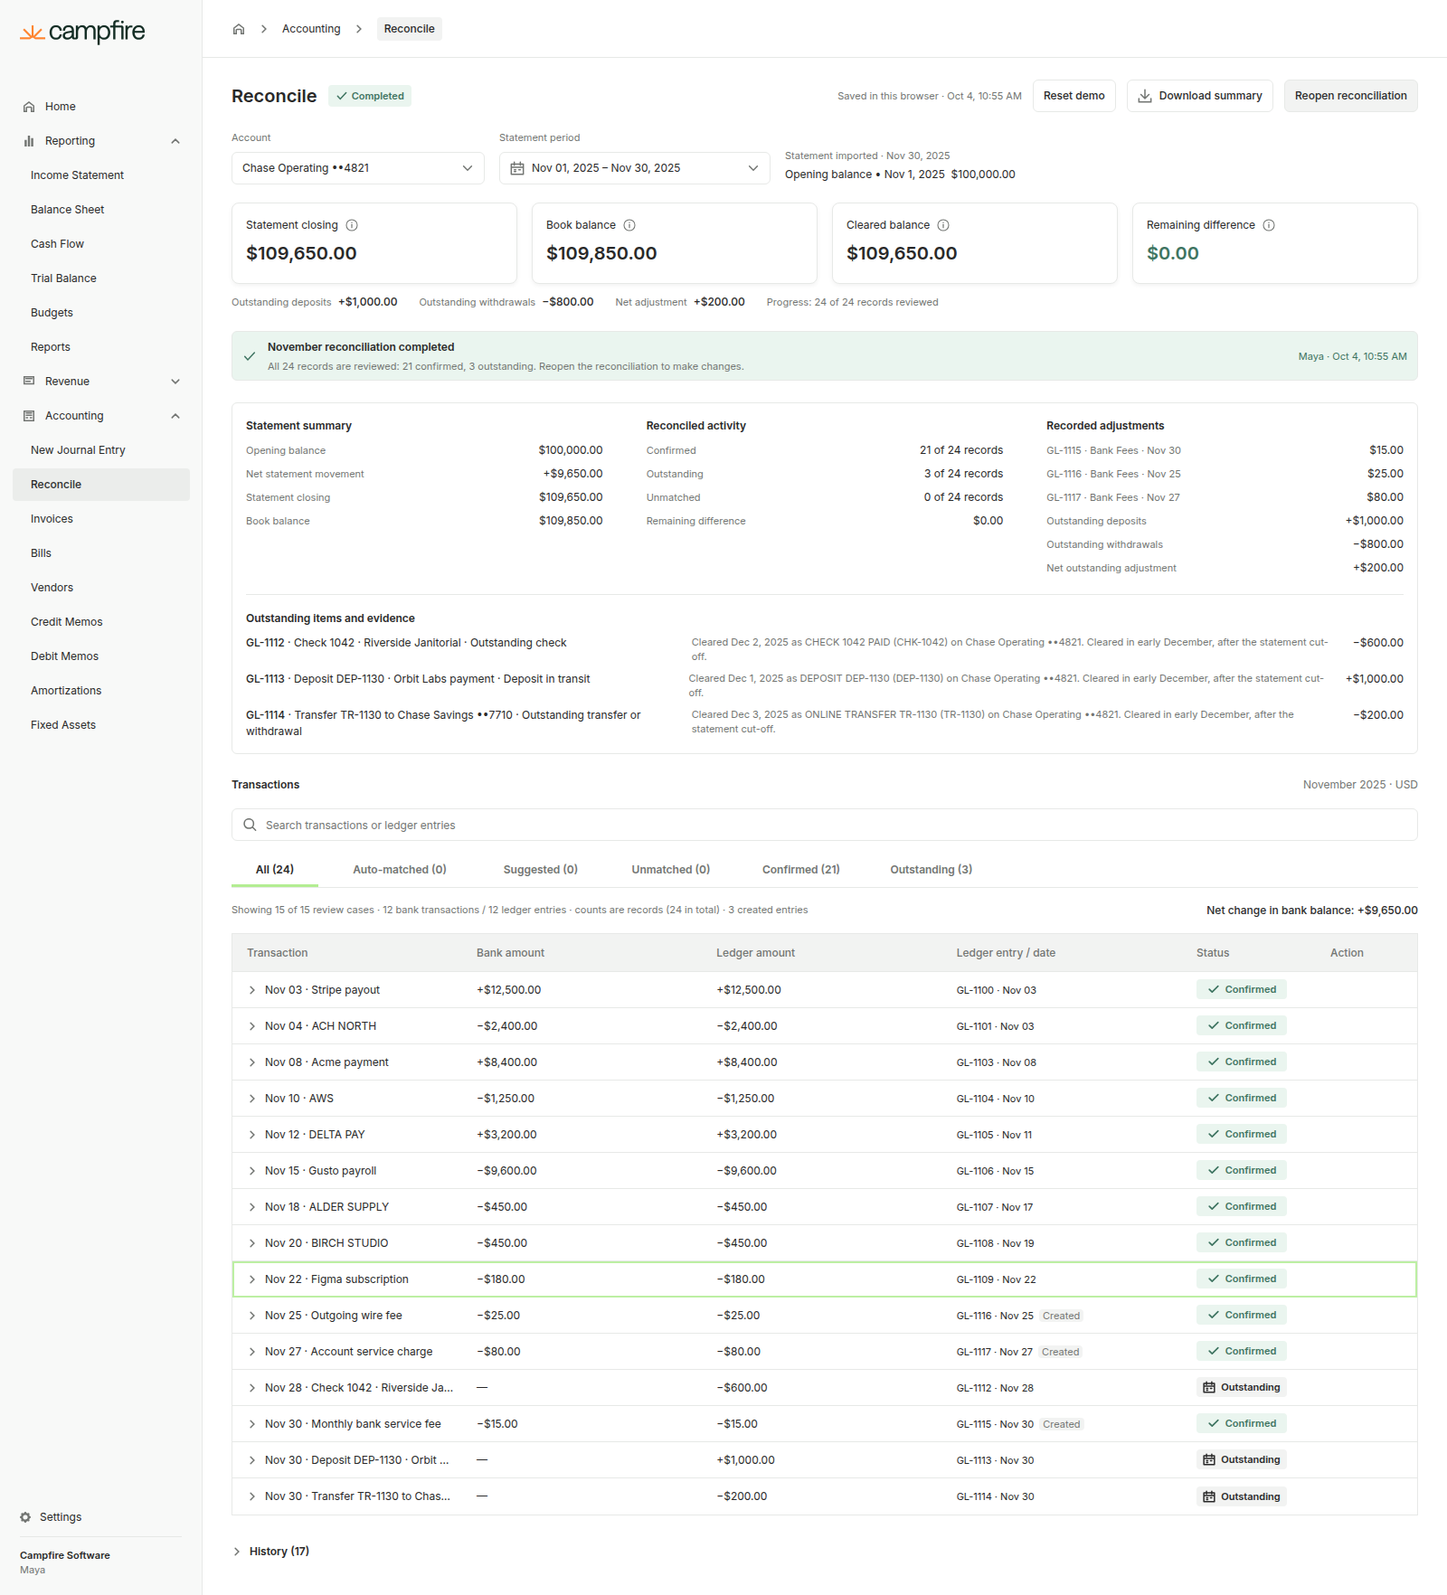
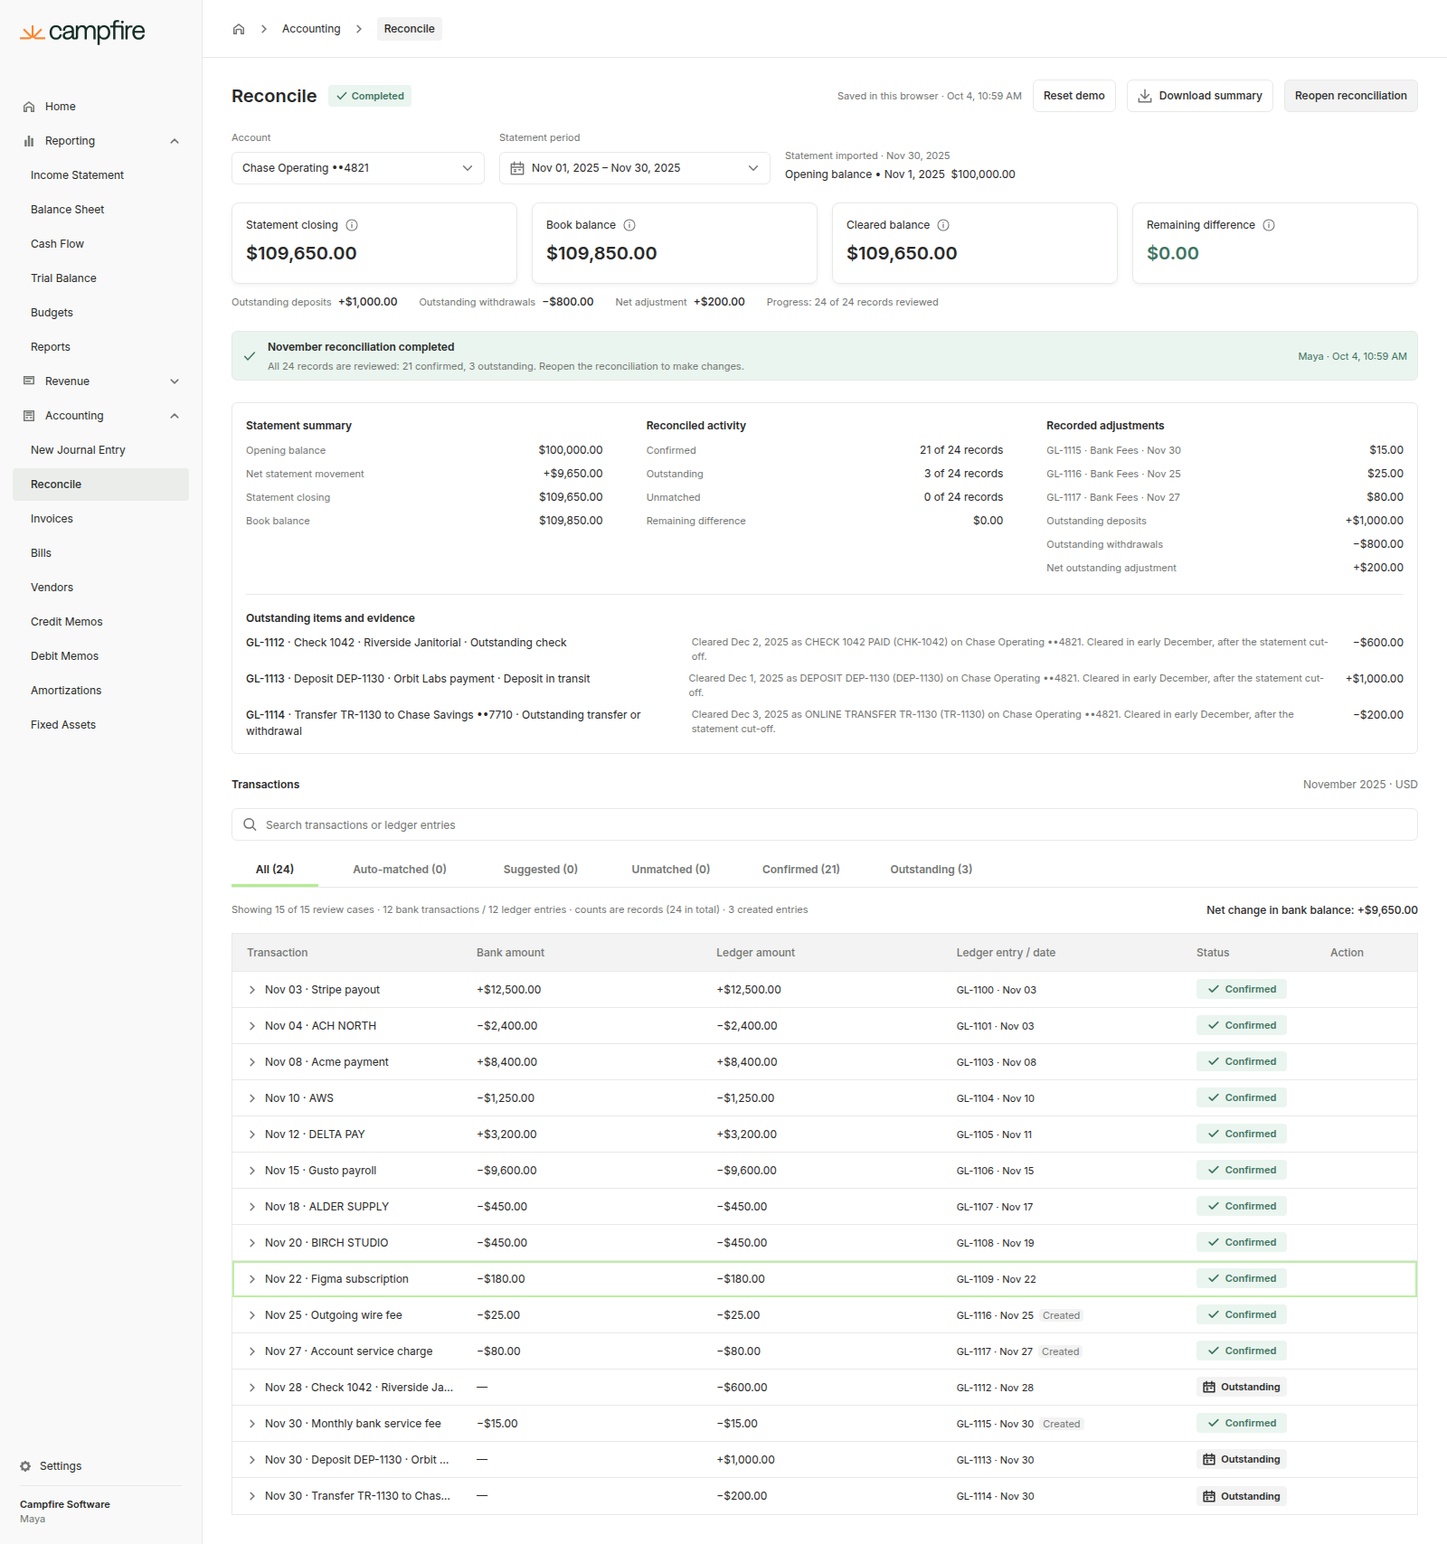
Stop sidebar sideways scrolling and remove the History section
The sidebar no longer scrolls horizontally; long labels truncate. The
History panel is removed from the reconciliation page. Undo stays on the
rows and the CSV export still includes the history.

Claude-Session: https://claude.ai/code/session_01SjmuwsjrTUXEVeGEdoK4rk

diff --git a/src/showcase/flags.ts b/src/showcase/flags.ts
@@ -39,13 +39,13 @@ export const UNDOCUMENTED = [
   'Minimum width of the allocation table before it scrolls (960 px).',
   'Child labels for nav groups that are collapsed in Figma (Financial Statements, Accounting and Cash Management on the dashboard panel) are sample labels.',
   'Negative or neutral trend badges are not documented and are not built.',
-  'Reconcile design additions (PRD "Design addition"; no Figma frame): the Outstanding pill and tab, the outstanding-item form with December evidence, the search empty-results line, the separate-expense acknowledgement, the "Created" chip on generated entries, the history panel, the save-failure notice, the blocked-completion notice, Reopen, the unreadable-data recovery screen and the demo reset dialog. All reuse existing tokens and components; none adds a color.',
+  'Reconcile design additions (PRD "Design addition"; no Figma frame): the Outstanding pill and tab, the outstanding-item form with December evidence, the search empty-results line, the separate-expense acknowledgement, the "Created" chip on generated entries, the save-failure notice, the blocked-completion notice, Reopen, the unreadable-data recovery screen and the demo reset dialog. All reuse existing tokens and components; none adds a color.',
   'Find another ledger entry follows Figma 38:6512, 38:7275 and 38:7320 at Yirang\'s request (2026-10-04): heading, subtitle, Create entry… and one search field ("Search by keywords or date") that matches descriptions, references, entry ids and dates (Nov 17, November 17, 11/17, 2025-11-17). The PRD\'s visible date and counterparty filters, keyword suggestions and matching-criteria text are removed; the eligibility rules (same signed amount, currency and account, unmatched only) still apply. Results show while the field has focus. With no results the menu shows "No matching ledger entries" (no Figma state).',
   'Leave Unresolved only collapses the row, at Yirang\'s request (2026-10-04). The row stays in place with its Unmatched or Suggested status, keeps any draft, and still blocks completion. No note, status, tab, banner, history entry or confirmation is added, which departs from the PRD\'s optional note.',
   'Responsive layout, at Yirang\'s request (2026-10-04). Figma has desktop frames only, so every narrower layout is a design addition built from existing tokens and components, with no new color or type size. Layout follows the width the page actually has (container queries), so it also adapts inside a narrow artifact frame. Below 1100 px the sidebar becomes a menu drawer opened from a "Menu" button (panel icon) in the top bar. The header actions and account selectors wrap, balance cards go to two columns under 960 px and one under 480 px, and the register uses narrower fixed columns under 880 px and compact labeled rows under 640 px, with the expanded detail still directly beneath its row. The detail cards stack (source record first) under 760 px, card fields wrap to as many 104 px columns as fit, form rows drop to one column, and under 480 px the actions stack full width with the primary action first. Dropdowns and search results stay on screen: they open upward when there is no room below, scroll when long, and wrap long options. At 1440 px the page renders exactly as before.',
   'Field and dropdown error state: warning-ink border with an 11/16 warning-ink message under the field. Figma has no error state, so no new color is introduced.',
   'Ledger-only cases (outstanding checks, deposits and transfers) open with the ledger entry on the left and the search or outstanding form on the right, mirroring the bank-side layout.',
-  'Undo scope. The Undo link and the history panel undo accounting actions (match, create and match, outstanding) in reverse order. A dismissed suggestion is restored from its own compact notice, as Figma draws it (38:6668),.',
+  'Undo scope. The History section was removed at Yirang\'s request (2026-10-04); actions are still recorded for the CSV summary. The row\'s Undo link undoes accounting actions (match, create and match, outstanding) in reverse order. A dismissed suggestion is restored from its own compact notice, as Figma draws it (38:6668).',
 ]
 
 export const ACCESSIBILITY = [

diff --git a/prototype/src/ui/Summary.module.css b/prototype/src/ui/Summary.module.css
@@ -1,95 +1,3 @@
-/* Collapsible sections under the register (design addition). */
-.section {
-  display: flex;
-  flex-direction: column;
-  gap: var(--spacing-12);
-}
-
-.sectionHeading {
-  display: flex;
-  flex-wrap: wrap;
-  align-items: center;
-  gap: var(--spacing-8) var(--spacing-16);
-  font-size: var(--text-body-size);
-  line-height: var(--text-body-line-loose);
-  font-weight: var(--font-weight-semibold);
-}
-
-.disclosure {
-  display: inline-flex;
-  align-items: center;
-  gap: var(--spacing-8);
-  min-height: 32px;
-  padding: 0;
-  border: 0;
-  background: transparent;
-  color: var(--color-text-primary);
-  font: inherit;
-  cursor: pointer;
-}
-
-.sectionNote {
-  display: inline-flex;
-  align-items: center;
-  gap: var(--spacing-8);
-  font-size: var(--text-caption-size);
-  line-height: var(--text-caption-line);
-  font-weight: var(--font-weight-regular);
-  color: var(--color-text-secondary);
-}
-
-.inlineLink {
-  height: 20px;
-}
-
-.history {
-  margin: 0;
-  padding: 0;
-  list-style: none;
-  border: var(--border-width) solid var(--color-border-default);
-  border-radius: var(--radius-6);
-}
-
-.historyItem,
-.historyEmpty {
-  display: flex;
-  flex-wrap: wrap;
-  align-items: baseline;
-  gap: var(--spacing-16);
-  padding: var(--spacing-10) var(--spacing-16);
-  border-bottom: var(--border-width) solid var(--color-border-default);
-  font-size: var(--text-body-size);
-  line-height: var(--text-body-line);
-}
-
-.historyItem:last-child,
-.historyEmpty:last-child {
-  border-bottom: 0;
-}
-
-.historyEmpty {
-  color: var(--color-text-secondary);
-}
-
-.historyTime {
-  flex: none;
-  width: 112px;
-  font-size: var(--text-caption-size);
-  line-height: var(--text-caption-line);
-  color: var(--color-text-secondary);
-}
-
-.historyTag {
-  flex: none;
-  margin-left: auto;
-  padding: 0 var(--spacing-6);
-  border-radius: var(--radius-4);
-  background: var(--color-surface-subtle);
-  font-size: var(--text-caption-size);
-  line-height: var(--text-caption-line-loose);
-  color: var(--color-text-secondary);
-}
-
 /* Reconciliation summary (28:8924) */
 .summary {
   container: summary / inline-size;

diff --git a/prototype/src/App.test.tsx b/prototype/src/App.test.tsx
@@ -140,7 +140,6 @@ describe('Reconciliation prototype', () => {
     expect(screen.getByRole('tab', { name: 'Unmatched (14)' })).toBeInTheDocument()
     expect(screen.getByRole('tab', { name: 'Auto-matched (10)' })).toBeInTheDocument()
     expect(metric('Cleared balance')).toContain('$100,000.00')
-    expect(screen.getByRole('button', { name: /History \(0\)/ })).toBeInTheDocument()
     const saved = JSON.parse(localStorage.getItem(STORAGE_KEY) ?? 'null')
     const state = saved?.state ?? saved
     expect(state?.matches ?? []).toHaveLength(0)
@@ -156,7 +155,7 @@ describe('Reconciliation prototype', () => {
     expect(screen.queryByRole('dialog')).not.toBeInTheDocument()
     expect(within(row(/Outgoing wire fee/).closest('tr')!).getByText('Unmatched')).toBeInTheDocument()
     expect(screen.getByRole('tab', { name: 'Unmatched (14)' })).toBeInTheDocument()
-    expect(screen.getByRole('button', { name: /History \(0\)/ })).toBeInTheDocument()
+    expect(JSON.parse(localStorage.getItem(STORAGE_KEY) ?? '{"history":[]}').history).toHaveLength(0)
     expect(metric('Remaining difference')).toContain('$320.00')
     await user.click(row(/Outgoing wire fee/))
     expect(row(/Outgoing wire fee/)).toHaveAttribute('aria-expanded', 'true')

diff --git a/prototype/src/ui/ReconcilePage.tsx b/prototype/src/ui/ReconcilePage.tsx
@@ -13,7 +13,6 @@ import {
 } from '../domain/selectors'
 import type { Recon } from '../useRecon'
 import { CompletionSummary } from './CompletionSummary'
-import { HistoryPanel } from './HistoryPanel'
 import { Register } from './Register'
 import styles from './Page.module.css'
 
@@ -334,8 +333,6 @@ export function ReconcilePage({ recon, announce }: { recon: Recon; announce: (me
             />
           </div>
         </section>
-
-        <HistoryPanel state={state} onUndo={undo} />
       </div>
 
       <Modal

diff --git a/src/components/Navigation/Navigation.module.css b/src/components/Navigation/Navigation.module.css
@@ -35,6 +35,7 @@
   position: sticky;
   top: 0;
   height: 100vh;
+  overflow-x: hidden; /* A vertical scrollbar on a short screen must not push the rows into a sideways scroll. */
   overflow-y: auto;
 }
 
@@ -87,6 +88,7 @@
   align-items: center;
   gap: var(--spacing-10);
   width: var(--size-nav-item);
+  max-width: 100%; /* Labels truncate (see .label) rather than overflow when the panel is narrower. */
   height: var(--size-nav-row);
   padding: 0 var(--spacing-10);
   border: 0;

diff --git a/prototype/README.md b/prototype/README.md
@@ -26,11 +26,11 @@ Start from a reset. The page opens with a $320.00 difference and 24 records in 1
 5. **Document outstanding items.** Expand *Check 1042 · Riverside Janitorial*. Choose *Outstanding check* and, as evidence, the unrelated *CHECK 1047 PAID*: the claim is rejected and the entry stays unresolved. Pick *CHECK 1042 PAID* (Dec 2), add an explanation and **Document as outstanding**. Repeat for the deposit DEP-1130 (deposit in transit, Dec 1) and the transfer TR-1130 (Dec 3). The outstanding line under the balance cards reaches +$1,000.00 / −$800.00 / net +$200.00.
 6. **Review the auto-matched pairs.** Open the **Auto-matched** tab. Each pair (Stripe payout, Acme payment, AWS, Gusto payroll, Figma subscription) opens with the bank transaction and ledger entry side by side and the same three actions as a suggestion. **Confirm match** moves both records to Confirmed and clears the bank amount; **Dismiss suggestion** makes both Unmatched (with Undo); **Leave Unresolved** just collapses the row. Completion stays blocked until every pair is confirmed or dismissed and resolved.
 7. **Complete.** The difference is $0.00 and 24 of 24 records are reviewed (21 Confirmed, 3 Outstanding). **Complete reconciliation** locks the actions and shows the summary with the created entries and outstanding evidence. **Download summary** saves a CSV.
-8. **Reopen.** **Reopen reconciliation** restores editing and keeps every resolution. Refresh the page at any point: the state, drafts and history come back.
+8. **Reopen.** **Reopen reconciliation** restores editing and keeps every resolution. Refresh the page at any point: the state, drafts and recorded actions come back.
 
 Other paths worth trying:
 
-- **Undo in reverse order.** Use the row's Undo link or the History section. Undoing a created expense removes the entry and its match together.
+- **Undo in reverse order.** Use the row's Undo link (the latest action) or the Undo in a confirmed or outstanding row's details. Undoing a created expense removes the entry and its match together.
 - **Blocked completion.** Click **Complete reconciliation** early: the reasons are listed (unresolved records, a non-zero difference, or both).
 - **Leave unresolved.** Choose **Leave Unresolved** in any open case: the row collapses in place and keeps its status (Unmatched, Suggested or Auto-matched). Nothing else changes, and it still needs a resolution before you can complete. Click the row to continue.
 - **Unreadable save.** In the browser console run `localStorage.setItem('campfire.reconciliation.chase-4821.2025-11.v1', '{')` and reload. A recovery screen explains the problem, shows the raw data, and offers Try again or Reset demo. Nothing is overwritten until you choose.
@@ -57,7 +57,7 @@ Matches change the cleared balance only. Created expenses change the book balanc
 | `src/domain/selectors.ts` | Statuses, review cases, balances, blockers and search |
 | `src/domain/persistence.ts` | Versioned localStorage save and load with structural checks |
 | `src/useRecon.ts` | React state, saving after each change, save errors and recovery |
-| `src/ui/` | The page, register, expanded case detail, forms, summary and history |
+| `src/ui/` | The page, register, expanded case detail, forms and summary |
 
 The UI imports every component, icon and token from `../../src` (the shared design system). New shared pieces (status pills, notices, info tips, field errors, compact fields, the link button, balance cards and the app sidebar) were added there and are shown in the showcase's Reconciliation chapter.
 
@@ -83,7 +83,7 @@ The PRD wins where it conflicts with Figma. The main departures, all listed in `
 - The Figma frames' eight-row November and "John Glasgow" are replaced by the PRD dataset and Maya. Tabs count records (24), not rows. The PRD's five background pairs are Auto-matched items in the main table that still need review (Yirang's design), so the cleared balance starts at $100,000.00. Unmatched counts every transaction not yet confirmed or documented, so it starts at 14 and includes the 6 records in suggested pairs (Suggested is a subset, listed in both tabs). The PRD splits them 6 / 8; this follows Yirang's request.
 - The GL-1101 and GL-1105 memos read "ACH Northstar Hosting" and "DELTA PAY receipt" (PRD: "Northstar hosting", "Delta receipt") so the two correct suggestions look like close matches, at Yirang's request.
 - The register heading is "Exceptions to review", and the five matched pairs sit in a separate section.
-- Outstanding status, the outstanding form, search popover details, the note panel, history, save errors, blocked completion, reopen and recovery are PRD design additions with no Figma frame. They reuse existing tokens and components and are marked in the flags.
+- Outstanding status, the outstanding form, search popover details, save errors, blocked completion, reopen and recovery are PRD design additions with no Figma frame. They reuse existing tokens and components and are marked in the flags.
 - The expense form says "Paid from" (PRD) where Figma says "Payment account".
 - Field errors use warning ink (proposed; Figma has no error state).
 - Narrower screens are a design addition: below 1100 px the sidebar becomes a menu drawer, and the balance cards, register rows, expanded-row cards, forms and actions reflow by the width the page has (container queries). Dropdowns open upward when there is no room below. At 1440 px nothing changes.

diff --git a/docs/design-flags.md b/docs/design-flags.md
@@ -42,13 +42,13 @@ Conflicts in the Figma references, choices Figma does not document, accessibilit
 - Minimum width of the allocation table before it scrolls (960 px).
 - Child labels for nav groups that are collapsed in Figma (Financial Statements, Accounting and Cash Management on the dashboard panel) are sample labels.
 - Negative or neutral trend badges are not documented and are not built.
-- Reconcile design additions (PRD "Design addition"; no Figma frame): the Outstanding pill and tab, the outstanding-item form with December evidence, the search empty-results line, the separate-expense acknowledgement, the "Created" chip on generated entries, the history panel, the save-failure notice, the blocked-completion notice, Reopen, the unreadable-data recovery screen and the demo reset dialog. All reuse existing tokens and components; none adds a color.
+- Reconcile design additions (PRD "Design addition"; no Figma frame): the Outstanding pill and tab, the outstanding-item form with December evidence, the search empty-results line, the separate-expense acknowledgement, the "Created" chip on generated entries, the save-failure notice, the blocked-completion notice, Reopen, the unreadable-data recovery screen and the demo reset dialog. All reuse existing tokens and components; none adds a color.
 - Find another ledger entry follows Figma 38:6512, 38:7275 and 38:7320 at Yirang's request (2026-10-04): heading, subtitle, Create entry… and one search field ("Search by keywords or date") that matches descriptions, references, entry ids and dates (Nov 17, November 17, 11/17, 2025-11-17). The PRD's visible date and counterparty filters, keyword suggestions and matching-criteria text are removed; the eligibility rules (same signed amount, currency and account, unmatched only) still apply. Results show while the field has focus. With no results the menu shows "No matching ledger entries" (no Figma state).
 - Leave Unresolved only collapses the row, at Yirang's request (2026-10-04). The row stays in place with its Unmatched or Suggested status, keeps any draft, and still blocks completion. No note, status, tab, banner, history entry or confirmation is added, which departs from the PRD's optional note.
 - Responsive layout, at Yirang's request (2026-10-04). Figma has desktop frames only, so every narrower layout is a design addition built from existing tokens and components, with no new color or type size. Layout follows the width the page actually has (container queries), so it also adapts inside a narrow artifact frame. Below 1100 px the sidebar becomes a menu drawer opened from a "Menu" button (panel icon) in the top bar. The header actions and account selectors wrap, balance cards go to two columns under 960 px and one under 480 px, and the register uses narrower fixed columns under 880 px and compact labeled rows under 640 px, with the expanded detail still directly beneath its row. The detail cards stack (source record first) under 760 px, card fields wrap to as many 104 px columns as fit, form rows drop to one column, and under 480 px the actions stack full width with the primary action first. Dropdowns and search results stay on screen: they open upward when there is no room below, scroll when long, and wrap long options. At 1440 px the page renders exactly as before.
 - Field and dropdown error state: warning-ink border with an 11/16 warning-ink message under the field. Figma has no error state, so no new color is introduced.
 - Ledger-only cases (outstanding checks, deposits and transfers) open with the ledger entry on the left and the search or outstanding form on the right, mirroring the bank-side layout.
-- Undo scope. The Undo link and the history panel undo accounting actions (match, create and match, outstanding) in reverse order. A dismissed suggestion is restored from its own compact notice, as Figma draws it (38:6668),.
+- Undo scope. The History section was removed at Yirang's request (2026-10-04); actions are still recorded for the CSV summary. The row's Undo link undoes accounting actions (match, create and match, outstanding) in reverse order. A dismissed suggestion is restored from its own compact notice, as Figma draws it (38:6668).
 
 ## Accessibility concerns in the designs
 

diff --git a/docs/figma-and-decisions.md b/docs/figma-and-decisions.md
@@ -48,7 +48,7 @@ The PRD sets behavior, data and calculations; Figma sets the visual design. Wher
 - **Action column.** Kept in every state (it appears only in 28:8442) so the Undo link has a fixed place.
 - **Expense form.** "Paid from" (PRD) instead of "Payment account". Fields are the 34 px compact size drawn in that frame.
 - **Completed summary.** Records out of 24, created entries, and the outstanding adjustment with evidence, instead of "8 of 8 transactions".
-- **Design additions** (PRD, no Figma frame): Outstanding pill, tab and form; search empty results; separate-expense acknowledgement; history; save-failure, blocked-completion and recovery notices; reopen; demo reset. They reuse existing tokens and components.
+- **Design additions** (PRD, no Figma frame): Outstanding pill, tab and form; search empty results; separate-expense acknowledgement; save-failure, blocked-completion and recovery notices; reopen; demo reset. They reuse existing tokens and components.
 - **Field errors** use warning ink (proposed). No new color was added.
 
 Everything else follows Figma. Where two frames conflict, each screen follows its own frame (see the conflicts in design-flags.md).
